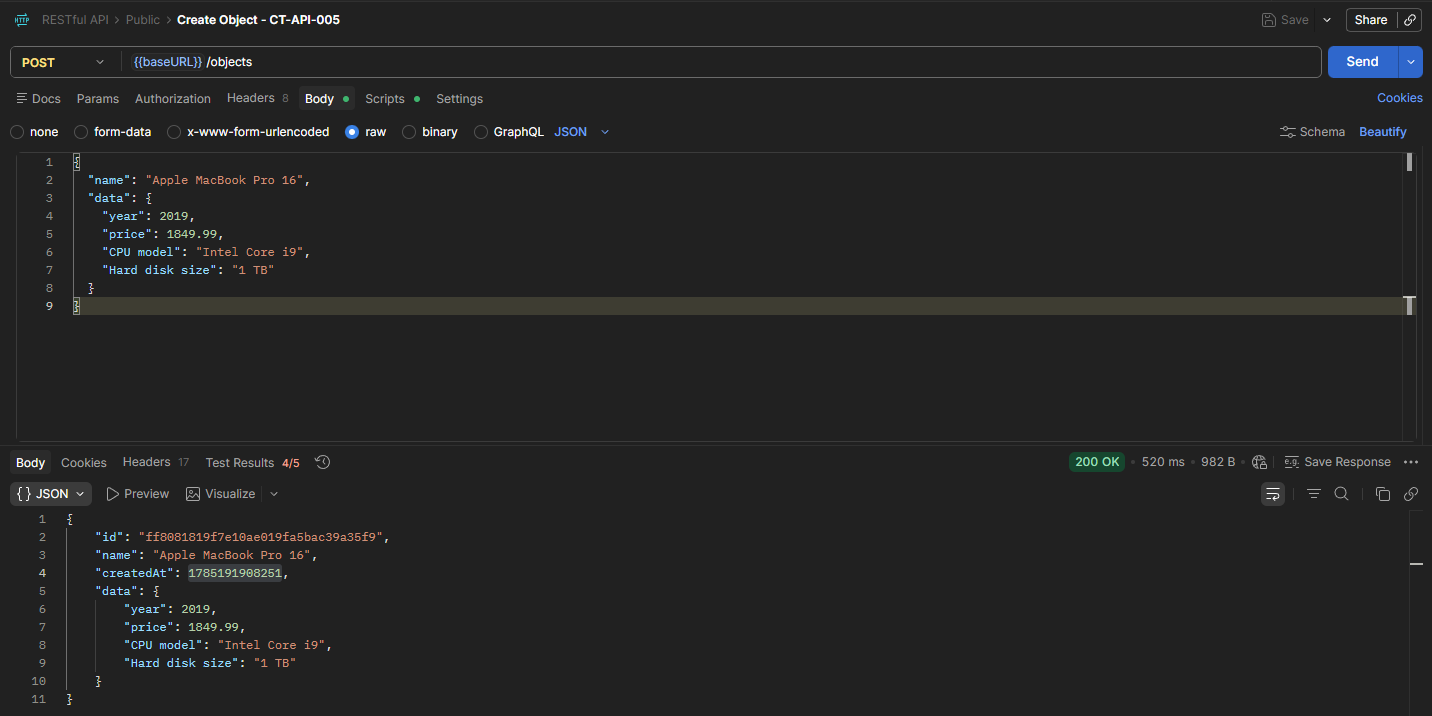
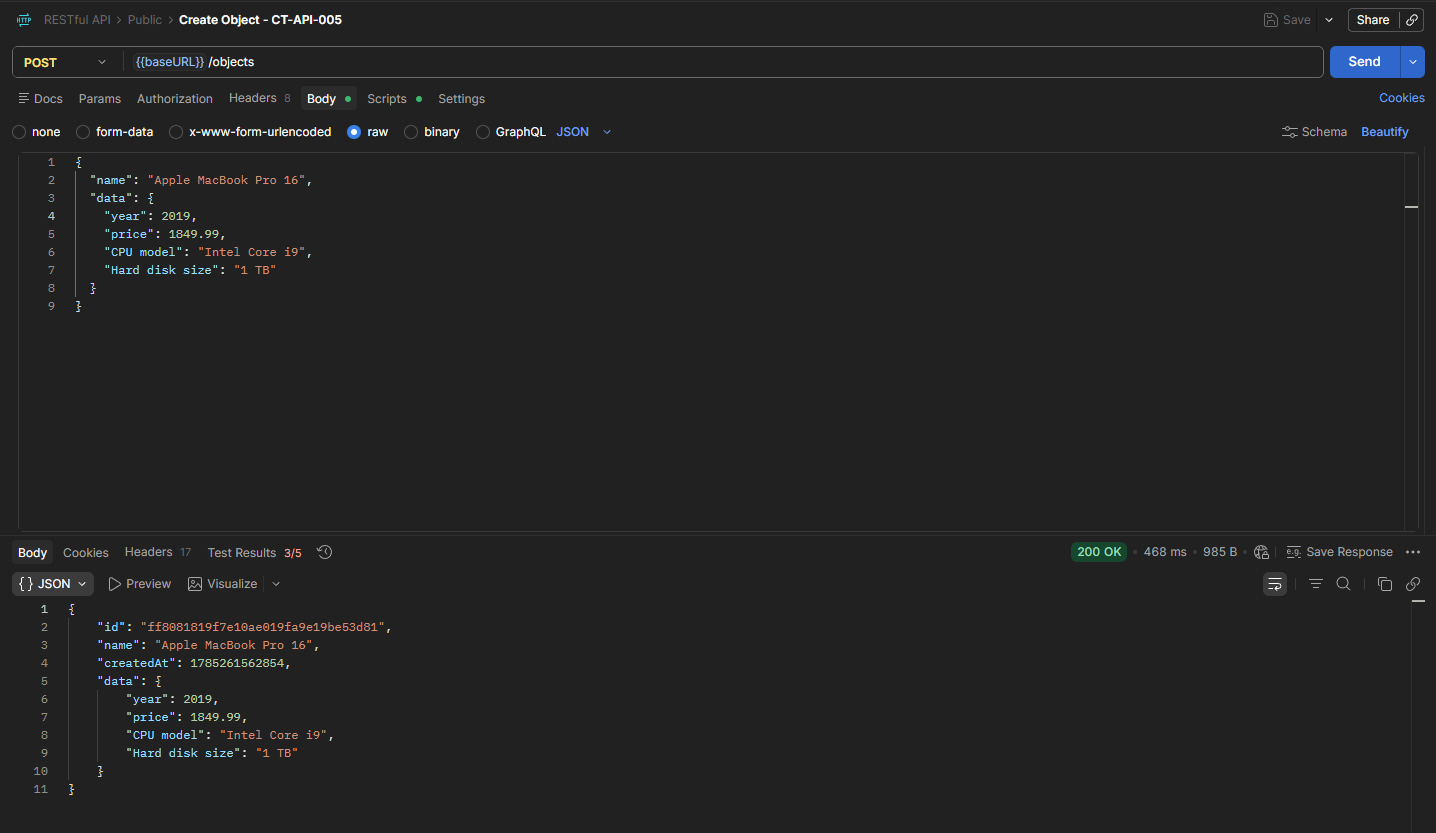
docs(test-cases): adiciona casos de teste realizados

diff --git a/api/RESTful API/public/test-cases.md b/api/RESTful API/public/test-cases.md
@@ -112,8 +112,8 @@
 | **Request Body** | <pre>{<br>&nbsp;&nbsp;"name": "Apple MacBook Pro 16",<br>&nbsp;&nbsp;"data": {<br>&nbsp;&nbsp;&nbsp;&nbsp;"year": 2019,<br>&nbsp;&nbsp;&nbsp;&nbsp;"price": 1849.99,<br>&nbsp;&nbsp;&nbsp;&nbsp;"CPU model": "Intel Core i9",<br>&nbsp;&nbsp;&nbsp;&nbsp;"Hard disk size": "1 TB"<br>&nbsp;&nbsp;}<br>}</pre> |
 | **Status Code Esperado** | `201 Created` |
 | **Response Body Esperada** | <pre>{<br>&nbsp;&nbsp;"id": "&lt;dinâmico&gt;",<br>&nbsp;&nbsp;"name": "Apple MacBook Pro 16",<br>&nbsp;&nbsp;"data": {<br>&nbsp;&nbsp;&nbsp;&nbsp;"year": 2019,<br>&nbsp;&nbsp;&nbsp;&nbsp;"price": 1849.99,<br>&nbsp;&nbsp;&nbsp;&nbsp;"CPU model": "Intel Core i9",<br>&nbsp;&nbsp;&nbsp;&nbsp;"Hard disk size": "1 TB"<br>&nbsp;&nbsp;},<br>&nbsp;&nbsp;"createdAt": "&lt;dinâmico&gt;"<br>}</pre> |
-| **Critérios de Aceite / Validações** | `id` gerado é string não vazia; `name` e `data` no response são idênticos ao request; `createdAt` é um timestamp válido; tempo de resposta deve ser menor que 1000ms |
-| **Resultado Atual** | Quatro testes passaram e um foi rejeitado (4/5) - Os válidos foram: tempo de execução < 1000ms, `id` gerado é uma string não vazia, `name` e `data` no response são idênticos ao request e `createdAt` é um timestamp válido. O teste inválido foi o status code, o esperado seria `201 Created` por ter criado um objeto na base de dados.|
+| **Critérios de Aceite / Validações** | `id` gerado é string não vazia; `name` e `data` no response são idênticos ao request; `createdAt` é uma string em formato ISO 8601 válida; tempo de resposta deve ser menor que 1000ms |
+| **Resultado Atual** | Três testes passaram e dois foram rejeitados (3/5) - Os válidos foram: tempo de execução < 1000ms, `id` gerado é uma string não vazia e `name` e `data` no response são idênticos ao request. Os testes inválidos foram: status code, o esperado seria `201 Created` por ter criado um objeto na base de dados, mas o do sistema foi `200 OK`; O segundo teste inválidado foi o `createdAt` deveria ser uma string no formato ISO 8601, conforme está na documentação, porém a API retorna um formato diferente númerico. |
 | **Evidências** | [Request/Response](../public/evidences/test-cases/CT-API-005-request-response.png) · [Test Results](../public/evidences/test-cases/CT-API-005-test-results.png)|
 
 ---
@@ -126,46 +126,33 @@
 | **Pré-condições** | Nenhuma |
 | **Request Headers** | `Content-Type: application/json` |
 | **Request Body** | <pre>{<br>&nbsp;&nbsp;"data": {<br>&nbsp;&nbsp;&nbsp;&nbsp;"year": 2019<br>&nbsp;&nbsp;}<br>}</pre> |
-| **Status Code Esperado** | `400 Bad Request` — **atenção:** a documentação fornecida não declara `name` como obrigatório nem descreve regras de validação. Esta é uma expectativa assumida, não confirmada. Ao executar, registrar o status real (esta API sandbox é conhecida por ser permissiva e pode aceitar/gerar `name` vazio com `201`) |
-| **Response Body Esperada** | A confirmar na execução |
-| **Critérios de Aceite / Validações** | Se a API validar: mensagem de erro clara referenciando o campo `name`. Se a API não validar: registrar como gap de validação a ser reportado, não como teste "passou"; tempo de resposta deve ser menor que 1000ms |
-| **Resultado Atual** | |
+| **Status Code Esperado** | `400 Bad Request` |
+| **Response Body Esperada** | A verificar  |
+| **Critérios de Aceite / Validações** | status code deve ser `400 Bad Request`, pois é uma falha na integridade dos dados permitir que um objeto seja cadastrado sem o nome |
+| **Resultado Atual** | Um teste automatizado passou e um falhou (1/2) - O tempo de execução < 1000ms foi validado corretamente, enquanto o status code retornado foi `200 OK` ao invés de `400 Bad Request` e o objeto foi criado com o campo `name` como `null`|
+| **Evidências** | [Request/Response](../public/evidences/test-cases/CT-API-006-request-response.png) · [Test Results](../public/evidences/test-cases/CT-API-006-test-results.png)|
 
----
- 
-### CT-API-007 — Criar objeto com payload de `data` grande e aninhado
- 
-| Campo | Detalhes |
-| :--- | :--- |
-| **Endpoint** | `POST` `/objects` |
-| **Pré-condições** | Nenhuma |
-| **Request Headers** | `Content-Type: application/json` |
-| **Request Body** | <pre>{<br>&nbsp;&nbsp;"name": "Stress Test Object",<br>&nbsp;&nbsp;"data": {<br>&nbsp;&nbsp;&nbsp;&nbsp;"specs": {<br>&nbsp;&nbsp;&nbsp;&nbsp;&nbsp;&nbsp;"level1": {<br>&nbsp;&nbsp;&nbsp;&nbsp;&nbsp;&nbsp;&nbsp;&nbsp;"level2": {<br>&nbsp;&nbsp;&nbsp;&nbsp;&nbsp;&nbsp;&nbsp;&nbsp;&nbsp;&nbsp;"level3": {<br>&nbsp;&nbsp;&nbsp;&nbsp;&nbsp;&nbsp;&nbsp;&nbsp;&nbsp;&nbsp;&nbsp;&nbsp;"value": "teste de aninhamento"<br>&nbsp;&nbsp;&nbsp;&nbsp;&nbsp;&nbsp;&nbsp;&nbsp;&nbsp;&nbsp;}<br>&nbsp;&nbsp;&nbsp;&nbsp;&nbsp;&nbsp;&nbsp;&nbsp;}<br>&nbsp;&nbsp;&nbsp;&nbsp;&nbsp;&nbsp;}<br>&nbsp;&nbsp;&nbsp;&nbsp;},<br>&nbsp;&nbsp;&nbsp;&nbsp;"tags": ["a", "b", "c", "... (100+ itens)"]<br>&nbsp;&nbsp;}<br>}</pre> |
-| **Status Code Esperado** | `201 Created` (a confirmar se há limite de tamanho de payload documentado) |
-| **Response Body Esperada** | Objeto criado com `data` preservando integralmente a estrutura enviada |
-| **Critérios de Aceite / Validações** | Estrutura aninhada não é truncada nem corrompida no retorno; se houver limite de tamanho, API deve responder `413 Payload Too Large` de forma explícita, não com erro genérico `500`; tempo de resposta deve ser menor que 1000ms |
-| **Resultado Atual** | |
- 
 ---
  
 ## 4. PUT /objects/{id}
  
-### CT-API-008 — Substituir integralmente um objeto existente
+### CT-API-007 — Substituir inteiramente um objeto existente
  
 | Campo | Detalhes |
 | :--- | :--- |
-| **Endpoint** | `PUT` `/objects/7` |
-| **Pré-condições** | Objeto com `id = 7` existente no banco |
+| **Endpoint** | `PUT` `/objects/{id de um objeto criado}` |
+| **Pré-condições** | Possuir um objeto cadastrado no banco, que não seja um objeto padrão que já vem cadastrado |
 | **Request Headers** | `Content-Type: application/json` |
-| **Request Body** | <pre>{<br>&nbsp;&nbsp;"name": "Apple MacBook Pro 16",<br>&nbsp;&nbsp;"data": {<br>&nbsp;&nbsp;&nbsp;&nbsp;"year": 2019,<br>&nbsp;&nbsp;&nbsp;&nbsp;"price": 2049.99,<br>&nbsp;&nbsp;&nbsp;&nbsp;"CPU model": "Intel Core i9",<br>&nbsp;&nbsp;&nbsp;&nbsp;"Hard disk size": "1 TB",<br>&nbsp;&nbsp;&nbsp;&nbsp;"color": "silver"<br>&nbsp;&nbsp;}<br>}</pre> |
+| **Request Body** | <pre>{<br>&nbsp;&nbsp;"name": "Iphone 17 Pro Max",<br>&nbsp;&nbsp;"data": {<br>&nbsp;&nbsp;&nbsp;&nbsp;"year": 2025,<br>&nbsp;&nbsp;&nbsp;&nbsp;"price": 12.500,<br>&nbsp;&nbsp;&nbsp;&nbsp;"CPU model": "Apple A19 Pro",<br>&nbsp;&nbsp;&nbsp;&nbsp;"Hard disk size": "256 GB",<br>&nbsp;&nbsp;&nbsp;&nbsp;"color": "silver"<br>&nbsp;&nbsp;}<br>}</pre> |
 | **Status Code Esperado** | `200 OK` |
-| **Response Body Esperada** | <pre>{<br>&nbsp;&nbsp;"id": "7",<br>&nbsp;&nbsp;"name": "Apple MacBook Pro 16",<br>&nbsp;&nbsp;"data": {<br>&nbsp;&nbsp;&nbsp;&nbsp;"year": 2019,<br>&nbsp;&nbsp;&nbsp;&nbsp;"price": 2049.99,<br>&nbsp;&nbsp;&nbsp;&nbsp;"CPU model": "Intel Core i9",<br>&nbsp;&nbsp;&nbsp;&nbsp;"Hard disk size": "1 TB",<br>&nbsp;&nbsp;&nbsp;&nbsp;"color": "silver"<br>&nbsp;&nbsp;},<br>&nbsp;&nbsp;"updatedAt": "&lt;dinâmico&gt;"<br>}</pre> |
-| **Critérios de Aceite / Validações** | `id` inalterado; todos os campos de `data` refletem exatamente o que foi enviado; `updatedAt` atualizado; tempo de resposta deve ser menor que 1000ms |
-| **Resultado Atual** | |
+| **Response Body Esperada** | <pre>{<br>&nbsp;&nbsp;"id": "{dinâmico}",<br>&nbsp;&nbsp;"name": "Iphone 17 Pro Max",<br>&nbsp;&nbsp;"data": {<br>&nbsp;&nbsp;&nbsp;&nbsp;"year": 2025,<br>&nbsp;&nbsp;&nbsp;&nbsp;"price": 12.500,<br>&nbsp;&nbsp;&nbsp;&nbsp;"CPU model": "Apple A19 Pro",<br>&nbsp;&nbsp;&nbsp;&nbsp;"Hard disk size": "256 GB",<br>&nbsp;&nbsp;&nbsp;&nbsp;"color": "silver"<br>&nbsp;&nbsp;},<br>&nbsp;&nbsp;"updatedAt": "&lt;dinâmico&gt;"<br>}</pre> |
+| **Critérios de Aceite / Validações** | `id` inalterado; todos os campos de `data` refletem exatamente o que foi enviado; `updatedAt` atualizado e difere do tempo do `createdAt` quado o objeto foi criado; tempo de resposta deve ser menor que 1000ms |
+| **Resultado Atual** | Todos os testes automatizados passaram (5/5) - tempo de execução < 1000ms, status code `200 OK`, `id` do objeto permanece inalterado, os campos de `data` refletem o que foi enviado e o campo `updatedAt` é maior do que o valor de `createdAt` |
+| **Evidências** | [Request/Response](../public/evidences/test-cases/CT-API-007-request-response.png) · [Test Results](../public/evidences/test-cases/CT-API-007-test-results.png)|
 
 ---
  
-### CT-API-009 — Tentar atualizar objeto com ID inexistente
+### CT-API-008 — Tentar atualizar objeto com ID inexistente
  
 | Campo | Detalhes |
 | :--- | :--- |
@@ -180,7 +167,7 @@
 
 ---
  
-### CT-API-010 — Verificar se `PUT` com body parcial remove os campos omitidos
+### CT-API-009 — Verificar se `PUT` com body parcial remove os campos omitidos
  
 | Campo | Detalhes |
 | :--- | :--- |
@@ -197,7 +184,7 @@
  
 ## 5. PATCH /objects/{id}
  
-### CT-API-011 — Atualizar somente o campo `name`, preservando `data`
+### CT-API-010 — Atualizar somente o campo `name`, preservando `data`
  
 | Campo | Detalhes |
 | :--- | :--- |
@@ -212,7 +199,7 @@
 
 ---
  
-### CT-API-012 — Tentar atualização parcial em ID inexistente
+### CT-API-011 — Tentar atualização parcial em ID inexistente
  
 | Campo | Detalhes |
 | :--- | :--- |
@@ -227,7 +214,7 @@
 
 ---
  
-### CT-API-013 — Enviar `PATCH` sem nenhum campo no body
+### CT-API-012 — Enviar `PATCH` sem nenhum campo no body
  
 | Campo | Detalhes |
 | :--- | :--- |
@@ -244,7 +231,7 @@
  
 ## 6. DELETE /objects/{id}
  
-### CT-API-014 — Remover um objeto existente com sucesso
+### CT-API-013 — Remover um objeto existente com sucesso
  
 | Campo | Detalhes |
 | :--- | :--- |
@@ -259,7 +246,7 @@
 
 ---
  
-### CT-API-015 — Tentar deletar objeto que não existe
+### CT-API-014 — Tentar deletar objeto que não existe
  
 | Campo | Detalhes |
 | :--- | :--- |
@@ -274,7 +261,7 @@
 
 ---
  
-### CT-API-016 — Deletar o mesmo objeto duas vezes em sequência rápida
+### CT-API-015 — Deletar o mesmo objeto duas vezes em sequência rápida
  
 | Campo | Detalhes |
 | :--- | :--- |
